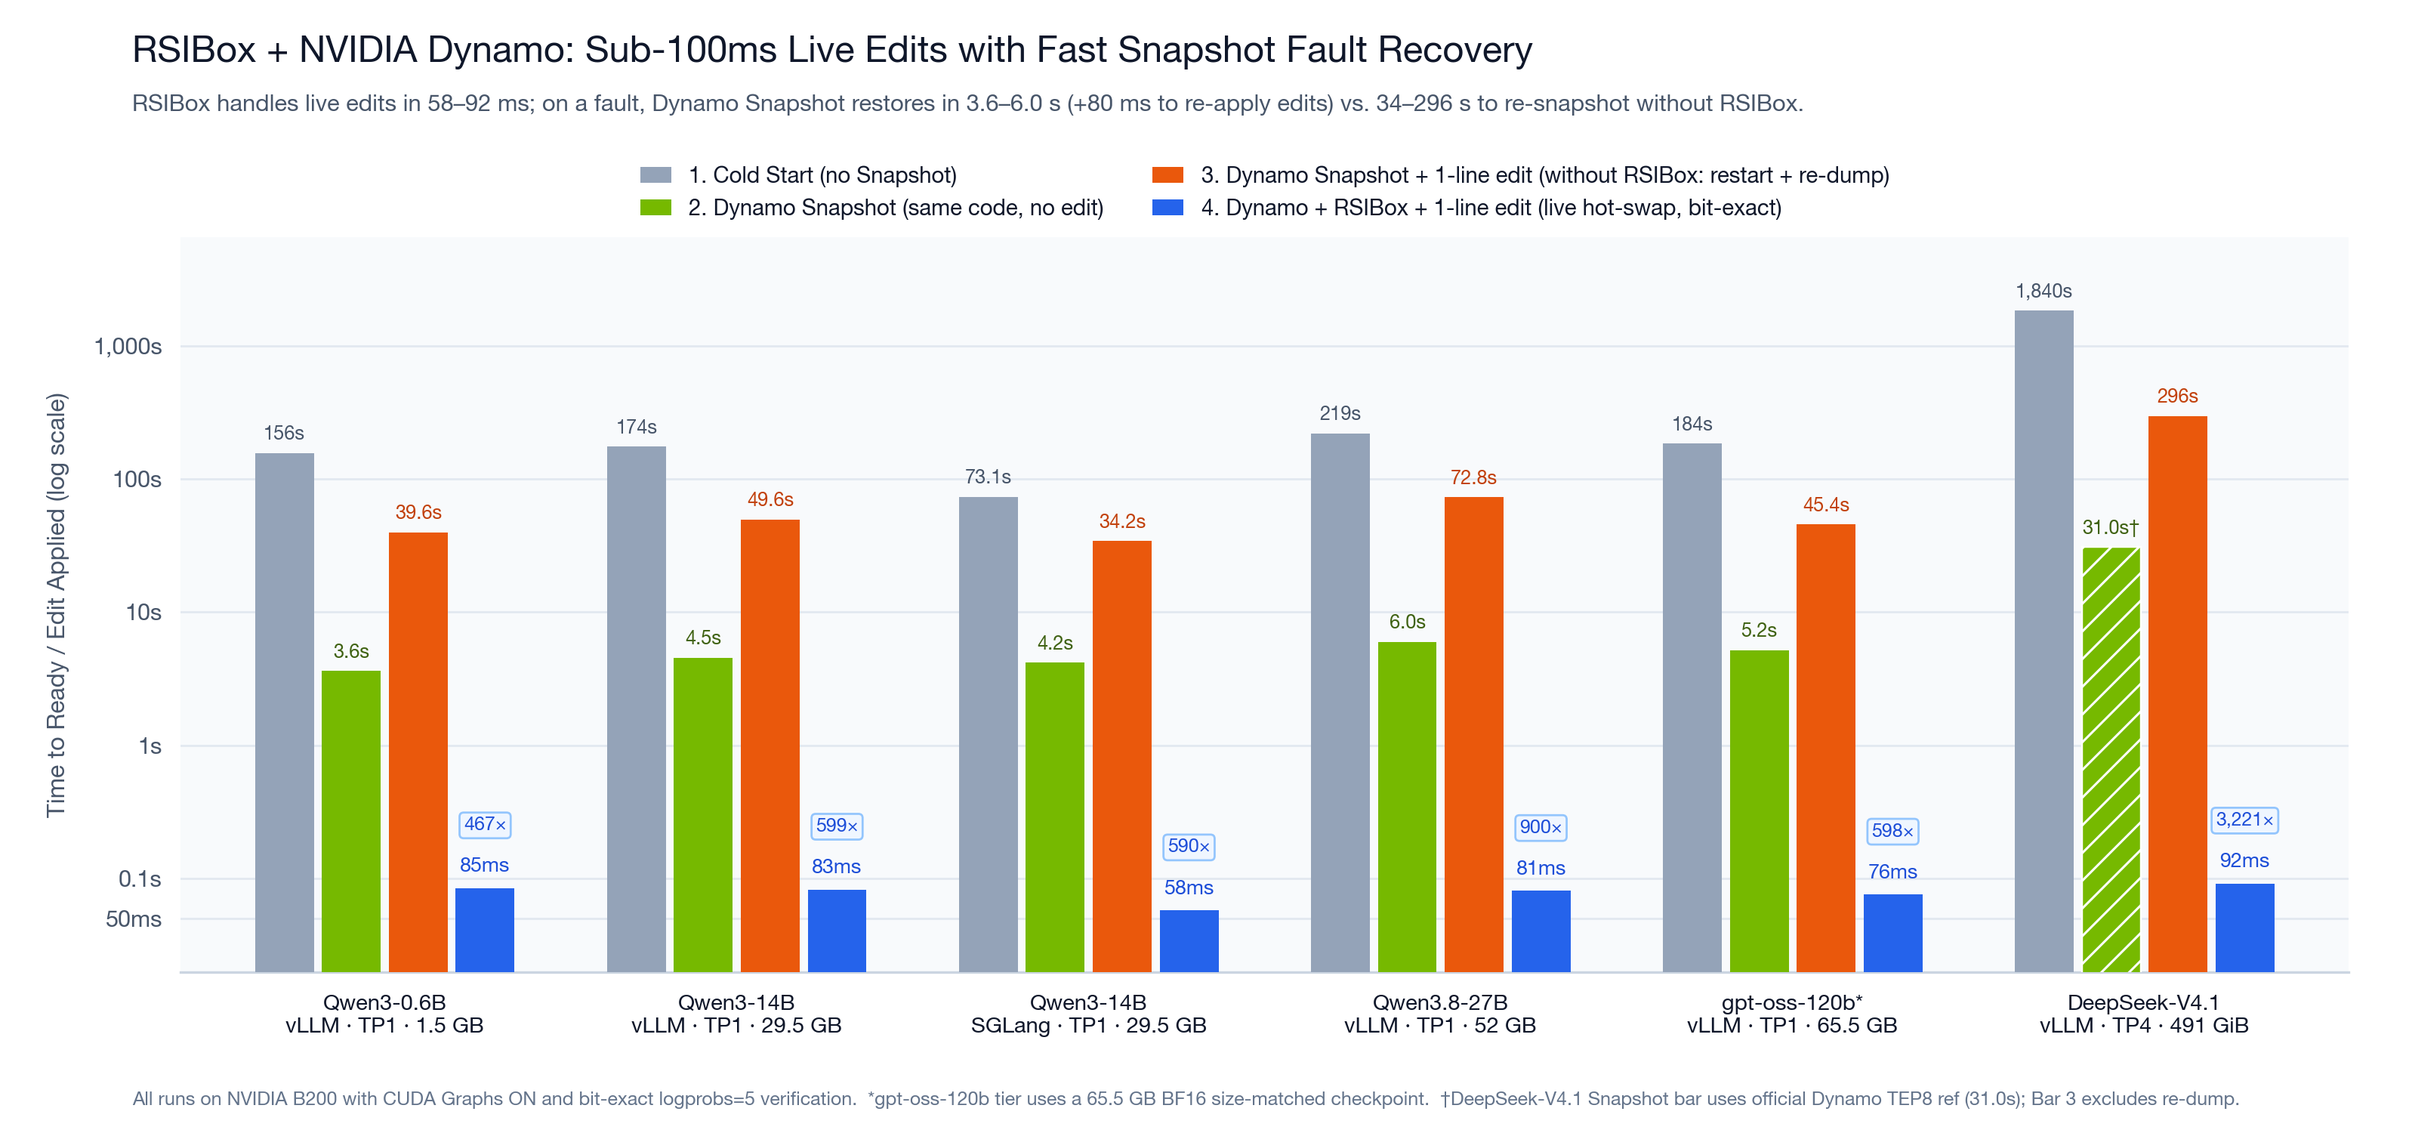
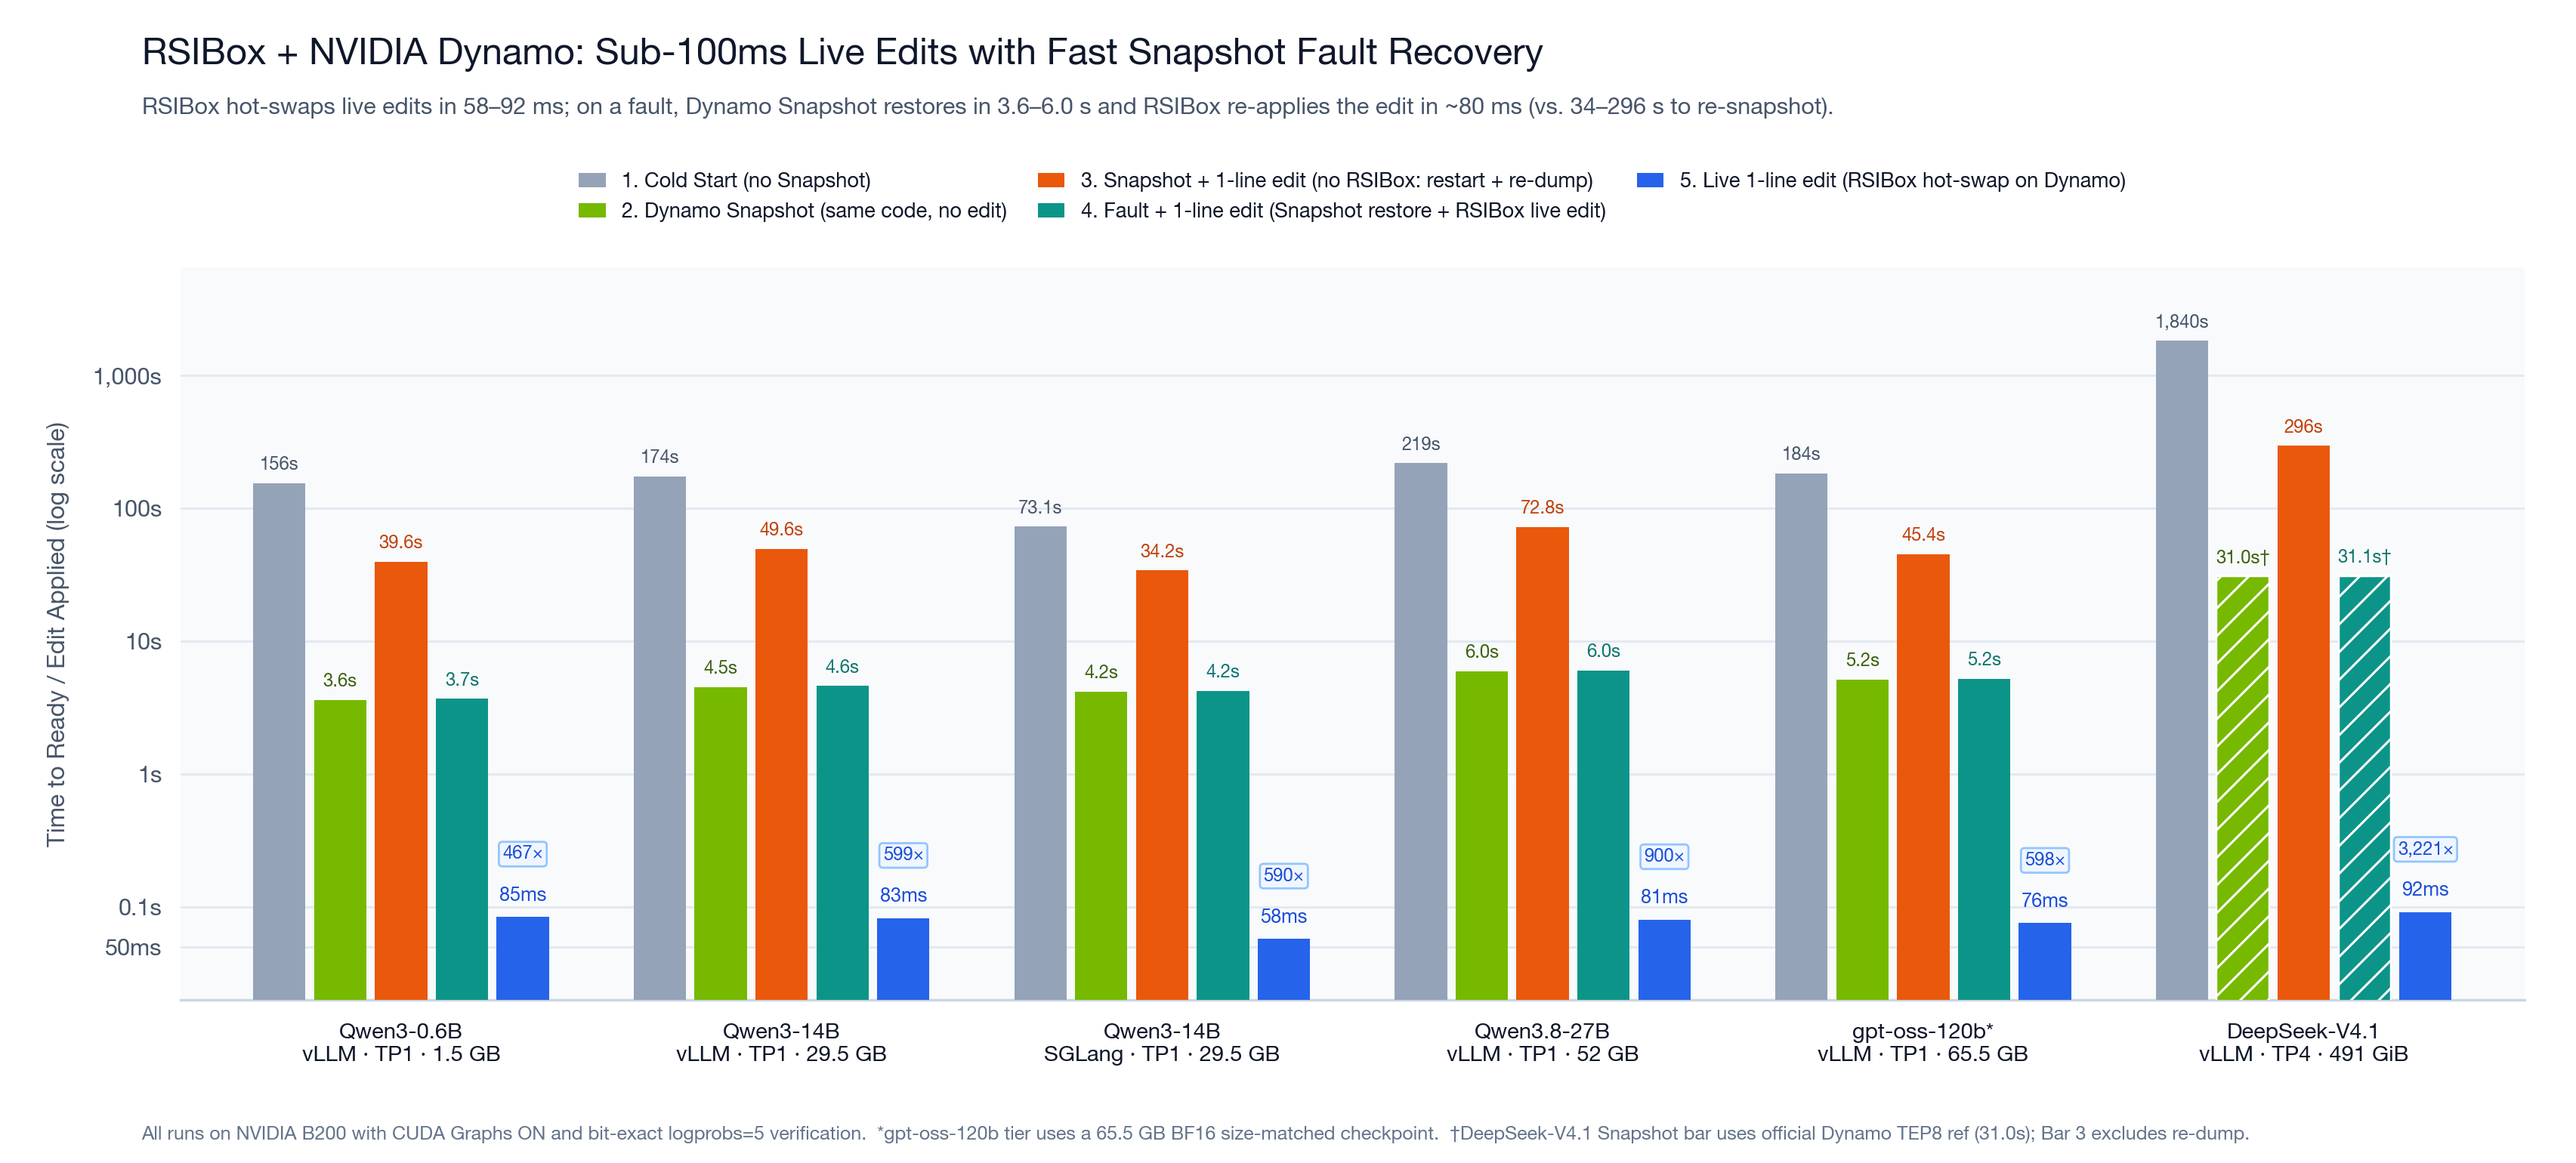
docs(assets): add 5th bar for fault recovery + live edit

diff --git a/scripts/plot_rsibox_dynamo_4bar.py b/scripts/plot_rsibox_dynamo_4bar.py
@@ -1,11 +1,12 @@
 #!/usr/bin/env python3
-"""Generate Light and Dark 4-bar comparison charts for RSIBox + NVIDIA Dynamo on NVIDIA B200.
+"""Generate Light and Dark 5-bar comparison charts for RSIBox + NVIDIA Dynamo on NVIDIA B200.
 
 Bar order (left -> right per model):
   1. Cold Start (no Snapshot)
   2. Dynamo Snapshot (same code, no edit)
-  3. Dynamo Snapshot + 1-line code edit (without RSIBox: warm/GMS restart + re-dump)
-  4. Dynamo + RSIBox + 1-line code edit (live in-place swap, bit-exact)
+  3. Dynamo Snapshot + 1-line edit (without RSIBox: restart + re-dump)
+  4. Fault + 1-line edit (Dynamo Snapshot restore + RSIBox live edit)
+  5. Live 1-line edit (RSIBox hot-swap on Dynamo, bit-exact)
 
 Usage:
   python3 scripts/plot_rsibox_dynamo_4bar.py
@@ -46,10 +47,12 @@ THEMES = {
         "c_cold": "#94A3B8",
         "c_snap": "#76B900",
         "c_edit": "#EA580C",
+        "c_fault": "#0D9488",
         "c_rsi": "#2563EB",
         "t_cold": "#475569",
         "t_snap": "#3F6212",
         "t_edit": "#C2410C",
+        "t_fault": "#0F766E",
         "t_rsi": "#1D4ED8",
         "pill_bg": "#EFF6FF",
         "pill_edge": "#93C5FD",
@@ -65,10 +68,12 @@ THEMES = {
         "c_cold": "#64748B",
         "c_snap": "#76B900",
         "c_edit": "#F59E0B",
+        "c_fault": "#14B8A6",
         "c_rsi": "#38BDF8",
         "t_cold": "#CBD5E1",
         "t_snap": "#A3E635",
         "t_edit": "#FCD34D",
+        "t_fault": "#5EEAD4",
         "t_rsi": "#7DD3FC",
         "pill_bg": "#0C4A6E",
         "pill_edge": "#38BDF8",
@@ -91,19 +96,20 @@ def draw_chart(theme_name: str, out_dir: Path) -> Path:
     plt.rcParams["font.family"] = "sans-serif"
     plt.rcParams["font.sans-serif"] = ["SF Pro Display", "Helvetica Neue", "DejaVu Sans", "Arial"]
 
-    fig, ax = plt.subplots(figsize=(14.5, 6.8), dpi=220)
+    fig, ax = plt.subplots(figsize=(15.5, 7.0), dpi=220)
     fig.patch.set_facecolor(th["bg"])
     ax.set_facecolor(th["panel"])
 
     n = len(DATA)
     x = np.arange(n)
-    w = 0.19
-    offsets = [-1.5 * w, -0.5 * w, 0.5 * w, 1.5 * w]
+    w = 0.16
+    offsets = [-2.0 * w, -1.0 * w, 0.0, 1.0 * w, 2.0 * w]
 
-    cold_vals = [d[2] for d in DATA]
-    snap_vals = [d[3] for d in DATA]
-    edit_vals = [d[5] for d in DATA]
-    rsi_vals = [d[6] for d in DATA]
+    cold_vals  = [d[2] for d in DATA]
+    snap_vals  = [d[3] for d in DATA]
+    edit_vals  = [d[5] for d in DATA]
+    fault_vals = [d[3] + d[6] for d in DATA]
+    rsi_vals   = [d[6] for d in DATA]
 
     ax.set_yscale("log")
     ax.set_ylim(0.02, 6500)
@@ -117,44 +123,49 @@ def draw_chart(theme_name: str, out_dir: Path) -> Path:
     ax.grid(axis="y", color=th["grid"], linewidth=0.9, zorder=0)
     ax.set_axisbelow(True)
 
-    b1 = ax.bar(x + offsets[0], cold_vals, width=w * 0.88, color=th["c_cold"],
-                label="1. Cold Start (no Snapshot)", zorder=3, edgecolor="none")
-    b2 = ax.bar(x + offsets[1], snap_vals, width=w * 0.88, color=th["c_snap"],
-                label="2. Dynamo Snapshot (same code, no edit)", zorder=3, edgecolor="none")
-    b3 = ax.bar(x + offsets[2], edit_vals, width=w * 0.88, color=th["c_edit"],
-                label="3. Dynamo Snapshot + 1-line edit (without RSIBox: restart + re-dump)", zorder=3, edgecolor="none")
-    b4 = ax.bar(x + offsets[3], rsi_vals, width=w * 0.88, color=th["c_rsi"],
-                label="4. Dynamo + RSIBox + 1-line edit (live hot-swap, bit-exact)", zorder=3, edgecolor="none")
+    bw = w * 0.86
+    b1 = ax.bar(x + offsets[0], cold_vals,  width=bw, color=th["c_cold"],
+                label="1. Cold Start (no Snapshot)", zorder=3)
+    b2 = ax.bar(x + offsets[1], snap_vals,  width=bw, color=th["c_snap"],
+                label="2. Dynamo Snapshot (same code, no edit)", zorder=3)
+    b3 = ax.bar(x + offsets[2], edit_vals,  width=bw, color=th["c_edit"],
+                label="3. Snapshot + 1-line edit (no RSIBox: restart + re-dump)", zorder=3)
+    b4 = ax.bar(x + offsets[3], fault_vals, width=bw, color=th["c_fault"],
+                label="4. Fault + 1-line edit (Snapshot restore + RSIBox live edit)", zorder=3)
+    b5 = ax.bar(x + offsets[4], rsi_vals,   width=bw, color=th["c_rsi"],
+                label="5. Live 1-line edit (RSIBox hot-swap on Dynamo)", zorder=3)
 
     for idx, d in enumerate(DATA):
         if d[4]:
-            b2[idx].set_hatch("//")
-            b2[idx].set_edgecolor(th["bg"])
-            b2[idx].set_linewidth(0.8)
+            for bar in (b2[idx], b4[idx]):
+                bar.set_hatch("//")
+                bar.set_edgecolor(th["bg"])
+                bar.set_linewidth(0.8)
 
     bar_groups = [
-        (b1, cold_vals, th["t_cold"], False),
-        (b2, snap_vals, th["t_snap"], False),
-        (b3, edit_vals, th["t_edit"], False),
-        (b4, rsi_vals, th["t_rsi"], True),
+        (b1, cold_vals,  th["t_cold"],  "cold"),
+        (b2, snap_vals,  th["t_snap"],  "snap"),
+        (b3, edit_vals,  th["t_edit"],  "edit"),
+        (b4, fault_vals, th["t_fault"], "fault"),
+        (b5, rsi_vals,   th["t_rsi"],   "rsi"),
     ]
-    for bars, vals, col, is_rsi in bar_groups:
+    for bars, vals, col, kind in bar_groups:
         for idx, (rect, val) in enumerate(zip(bars, vals)):
             cx = rect.get_x() + rect.get_width() / 2.0
             lbl = fmt_val(val)
-            if is_rsi:
+            if kind == "rsi":
                 ax.text(cx, val * 1.24, lbl, ha="center", va="bottom",
-                        fontsize=8.8, fontweight="bold", color=col, zorder=5)
+                        fontsize=8.3, fontweight="bold", color=col, zorder=5)
                 sp = edit_vals[idx] / val
                 ax.text(cx, val * 2.55, f"{sp:,.0f}×", ha="center", va="bottom",
-                        fontsize=8.2, fontweight="bold", color=th["t_rsi"],
-                        bbox=dict(boxstyle="round,pad=0.22", facecolor=th["pill_bg"],
+                        fontsize=7.8, fontweight="bold", color=th["t_rsi"],
+                        bbox=dict(boxstyle="round,pad=0.20", facecolor=th["pill_bg"],
                                   edgecolor=th["pill_edge"], linewidth=0.9),
                         zorder=6)
             else:
-                suffix = "†" if (bars is b2 and DATA[idx][4]) else ""
+                suffix = "†" if (kind in ("snap", "fault") and DATA[idx][4]) else ""
                 ax.text(cx, val * 1.18, lbl + suffix, ha="center", va="bottom",
-                        fontsize=8.3, fontweight="semibold", color=col, zorder=5)
+                        fontsize=7.8, fontweight="semibold", color=col, zorder=5)
 
     ax.set_xticks(x)
     ax.set_xticklabels([f"{d[0]}\n{d[1]}" for d in DATA],
@@ -174,22 +185,22 @@ def draw_chart(theme_name: str, out_dir: Path) -> Path:
              "RSIBox + NVIDIA Dynamo: Sub-100ms Live Edits with Fast Snapshot Fault Recovery",
              fontsize=16.0, fontweight="bold", color=th["text"])
     fig.text(0.055, 0.902,
-             "RSIBox handles live edits in 58–92 ms; on a fault, Dynamo Snapshot restores in 3.6–6.0 s (+80 ms to re-apply edits) vs. 34–296 s to re-snapshot without RSIBox.",
-             fontsize=10.1, color=th["sub"])
+             "RSIBox hot-swaps live edits in 58–92 ms; on a fault, Dynamo Snapshot restores in 3.6–6.0 s and RSIBox re-applies the edit in ~80 ms (vs. 34–296 s to re-snapshot).",
+             fontsize=10.0, color=th["sub"])
 
-    leg = ax.legend(loc="upper center", bbox_to_anchor=(0.5, 1.125), ncol=2,
-                    frameon=False, fontsize=9.6, handlelength=1.4, columnspacing=2.2)
+    leg = ax.legend(loc="upper center", bbox_to_anchor=(0.5, 1.155), ncol=3,
+                    frameon=False, fontsize=8.9, handlelength=1.3, columnspacing=1.5)
     for txt in leg.get_texts():
         txt.set_color(th["text"])
         txt.set_fontweight("medium")
 
-    fig.text(0.055, 0.022,
+    fig.text(0.055, 0.020,
              "All runs on NVIDIA B200 with CUDA Graphs ON and bit-exact logprobs=5 verification.  "
              "*gpt-oss-120b tier uses a 65.5 GB BF16 size-matched checkpoint.  "
              "†DeepSeek-V4.1 Snapshot bar uses official Dynamo TEP8 ref (31.0s); Bar 3 excludes re-dump.",
              fontsize=8.2, color=th["muted"])
 
-    plt.subplots_adjust(left=0.075, right=0.975, top=0.79, bottom=0.14)
+    plt.subplots_adjust(left=0.070, right=0.980, top=0.77, bottom=0.14)
     out_dir.mkdir(parents=True, exist_ok=True)
     out_path = out_dir / f"rsibox-dynamo-4bar-{theme_name}.png"
     fig.savefig(out_path, dpi=220, facecolor=th["bg"])
